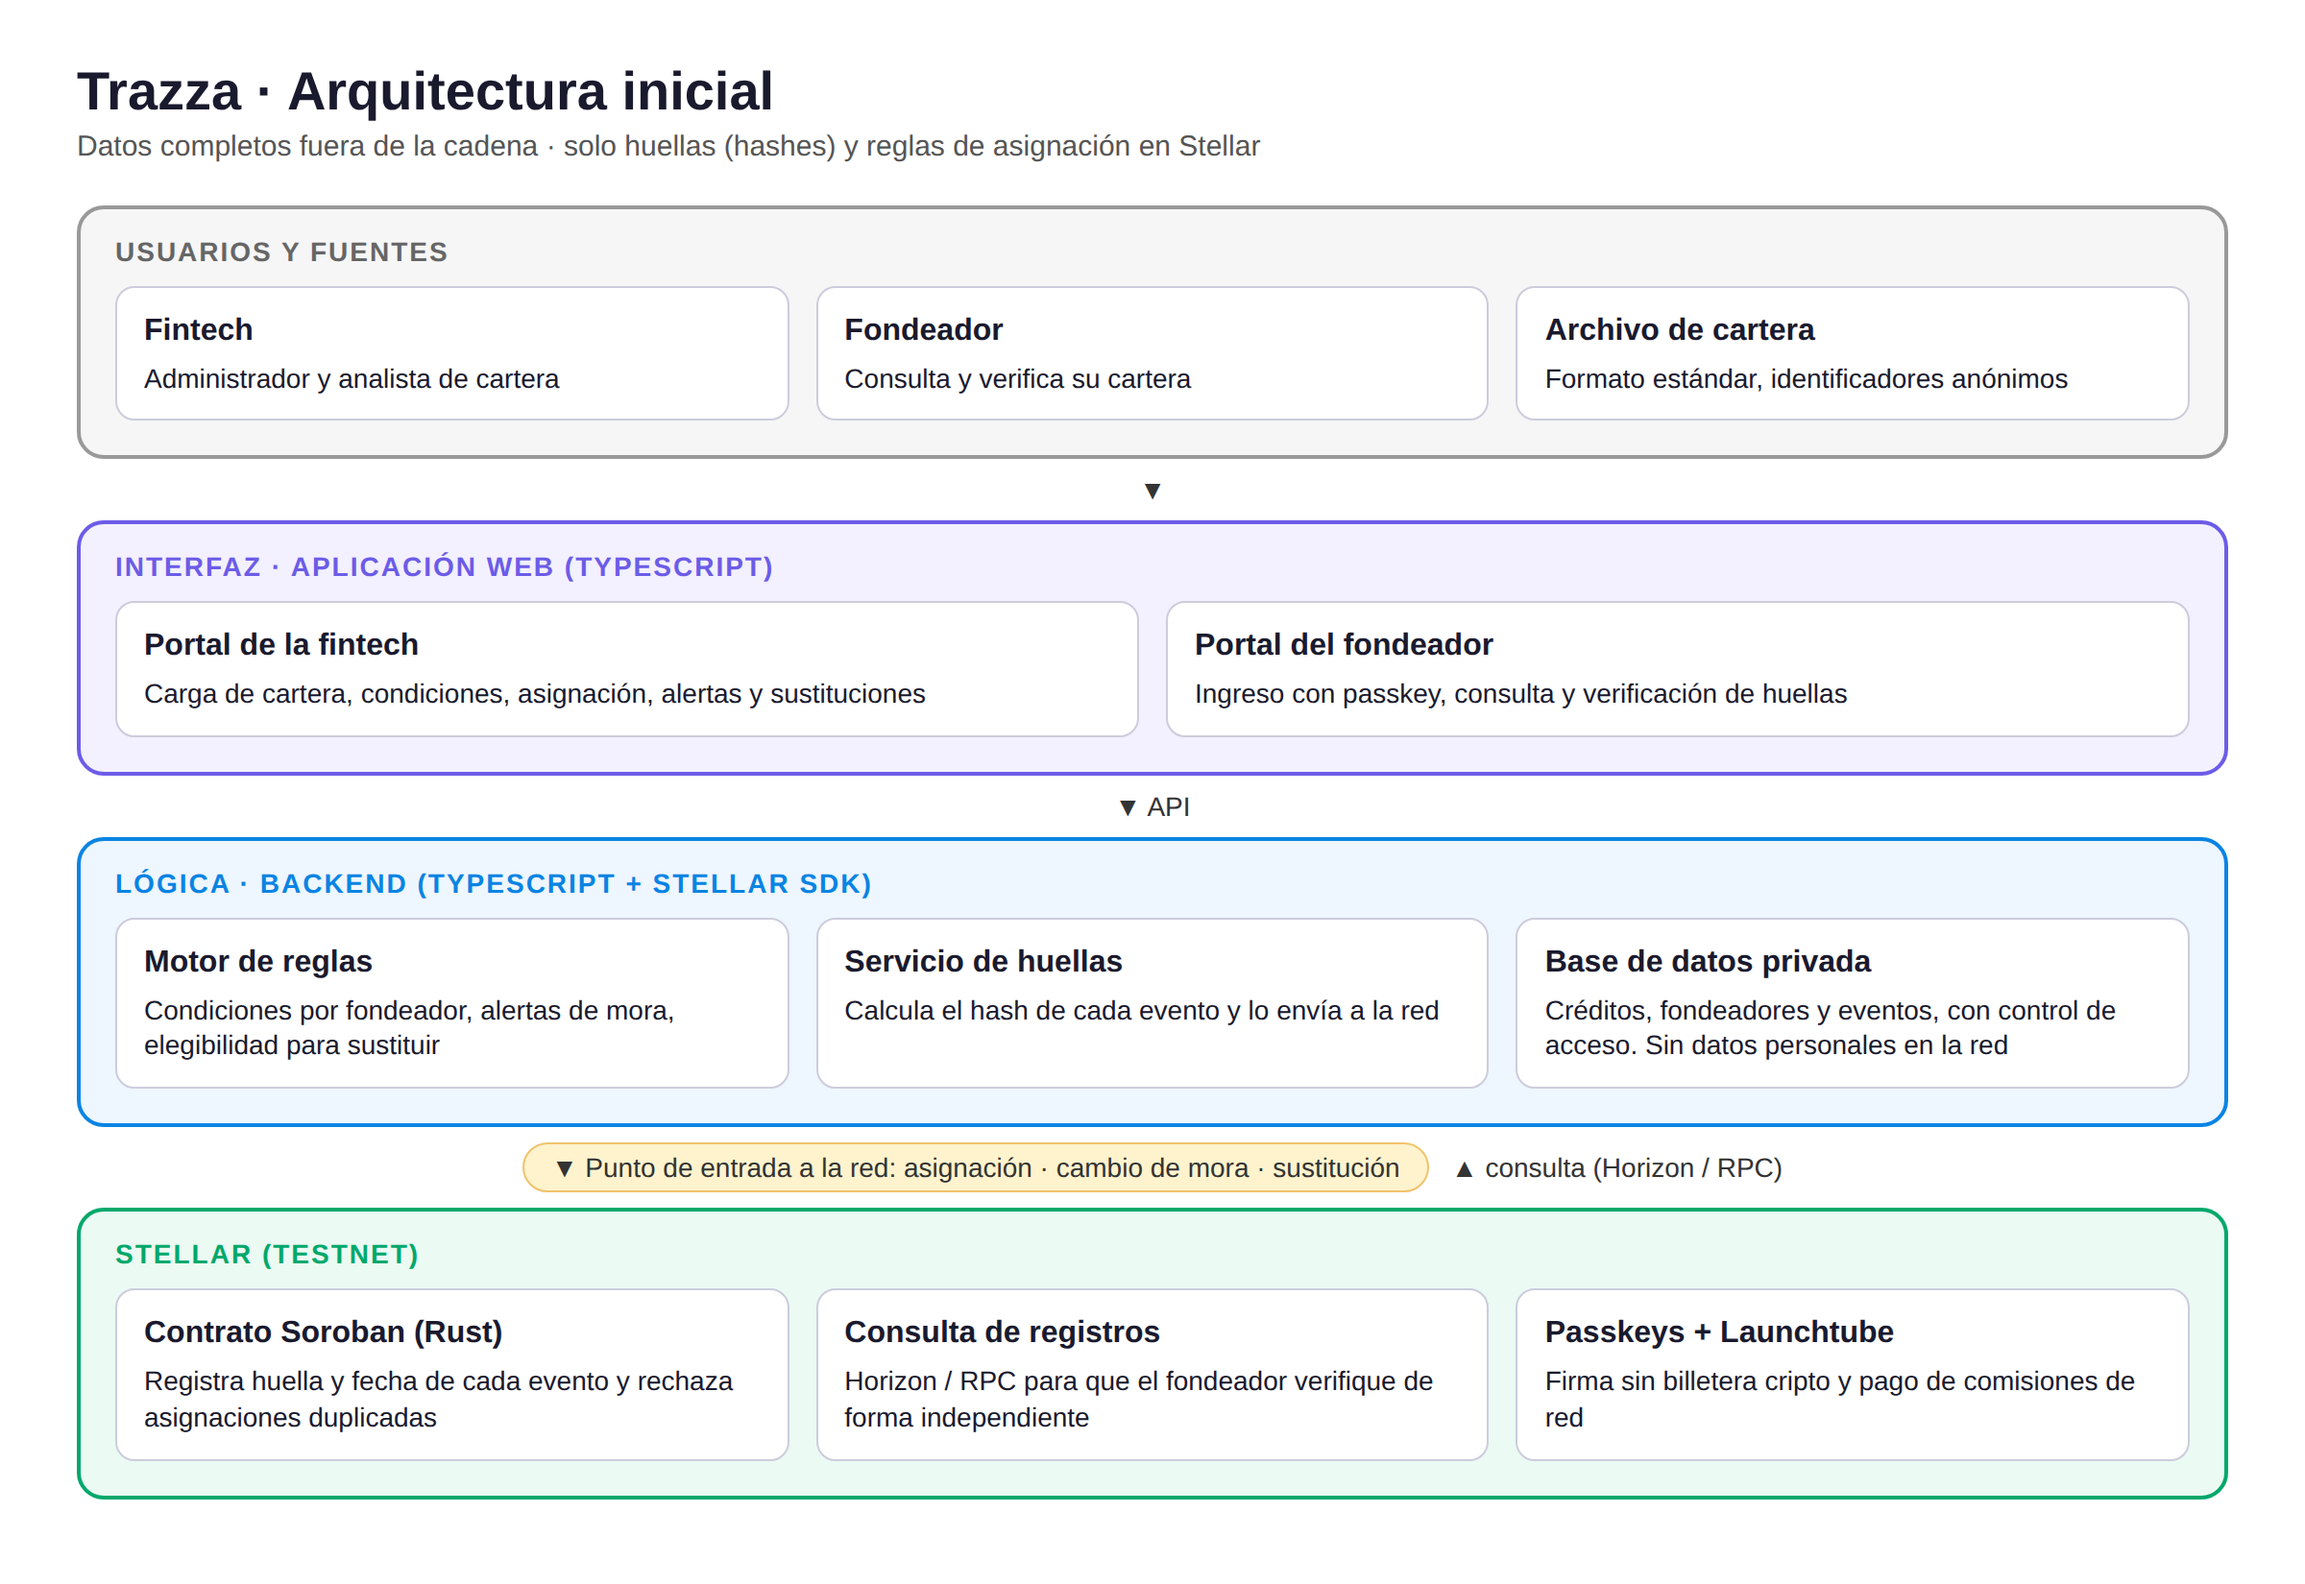
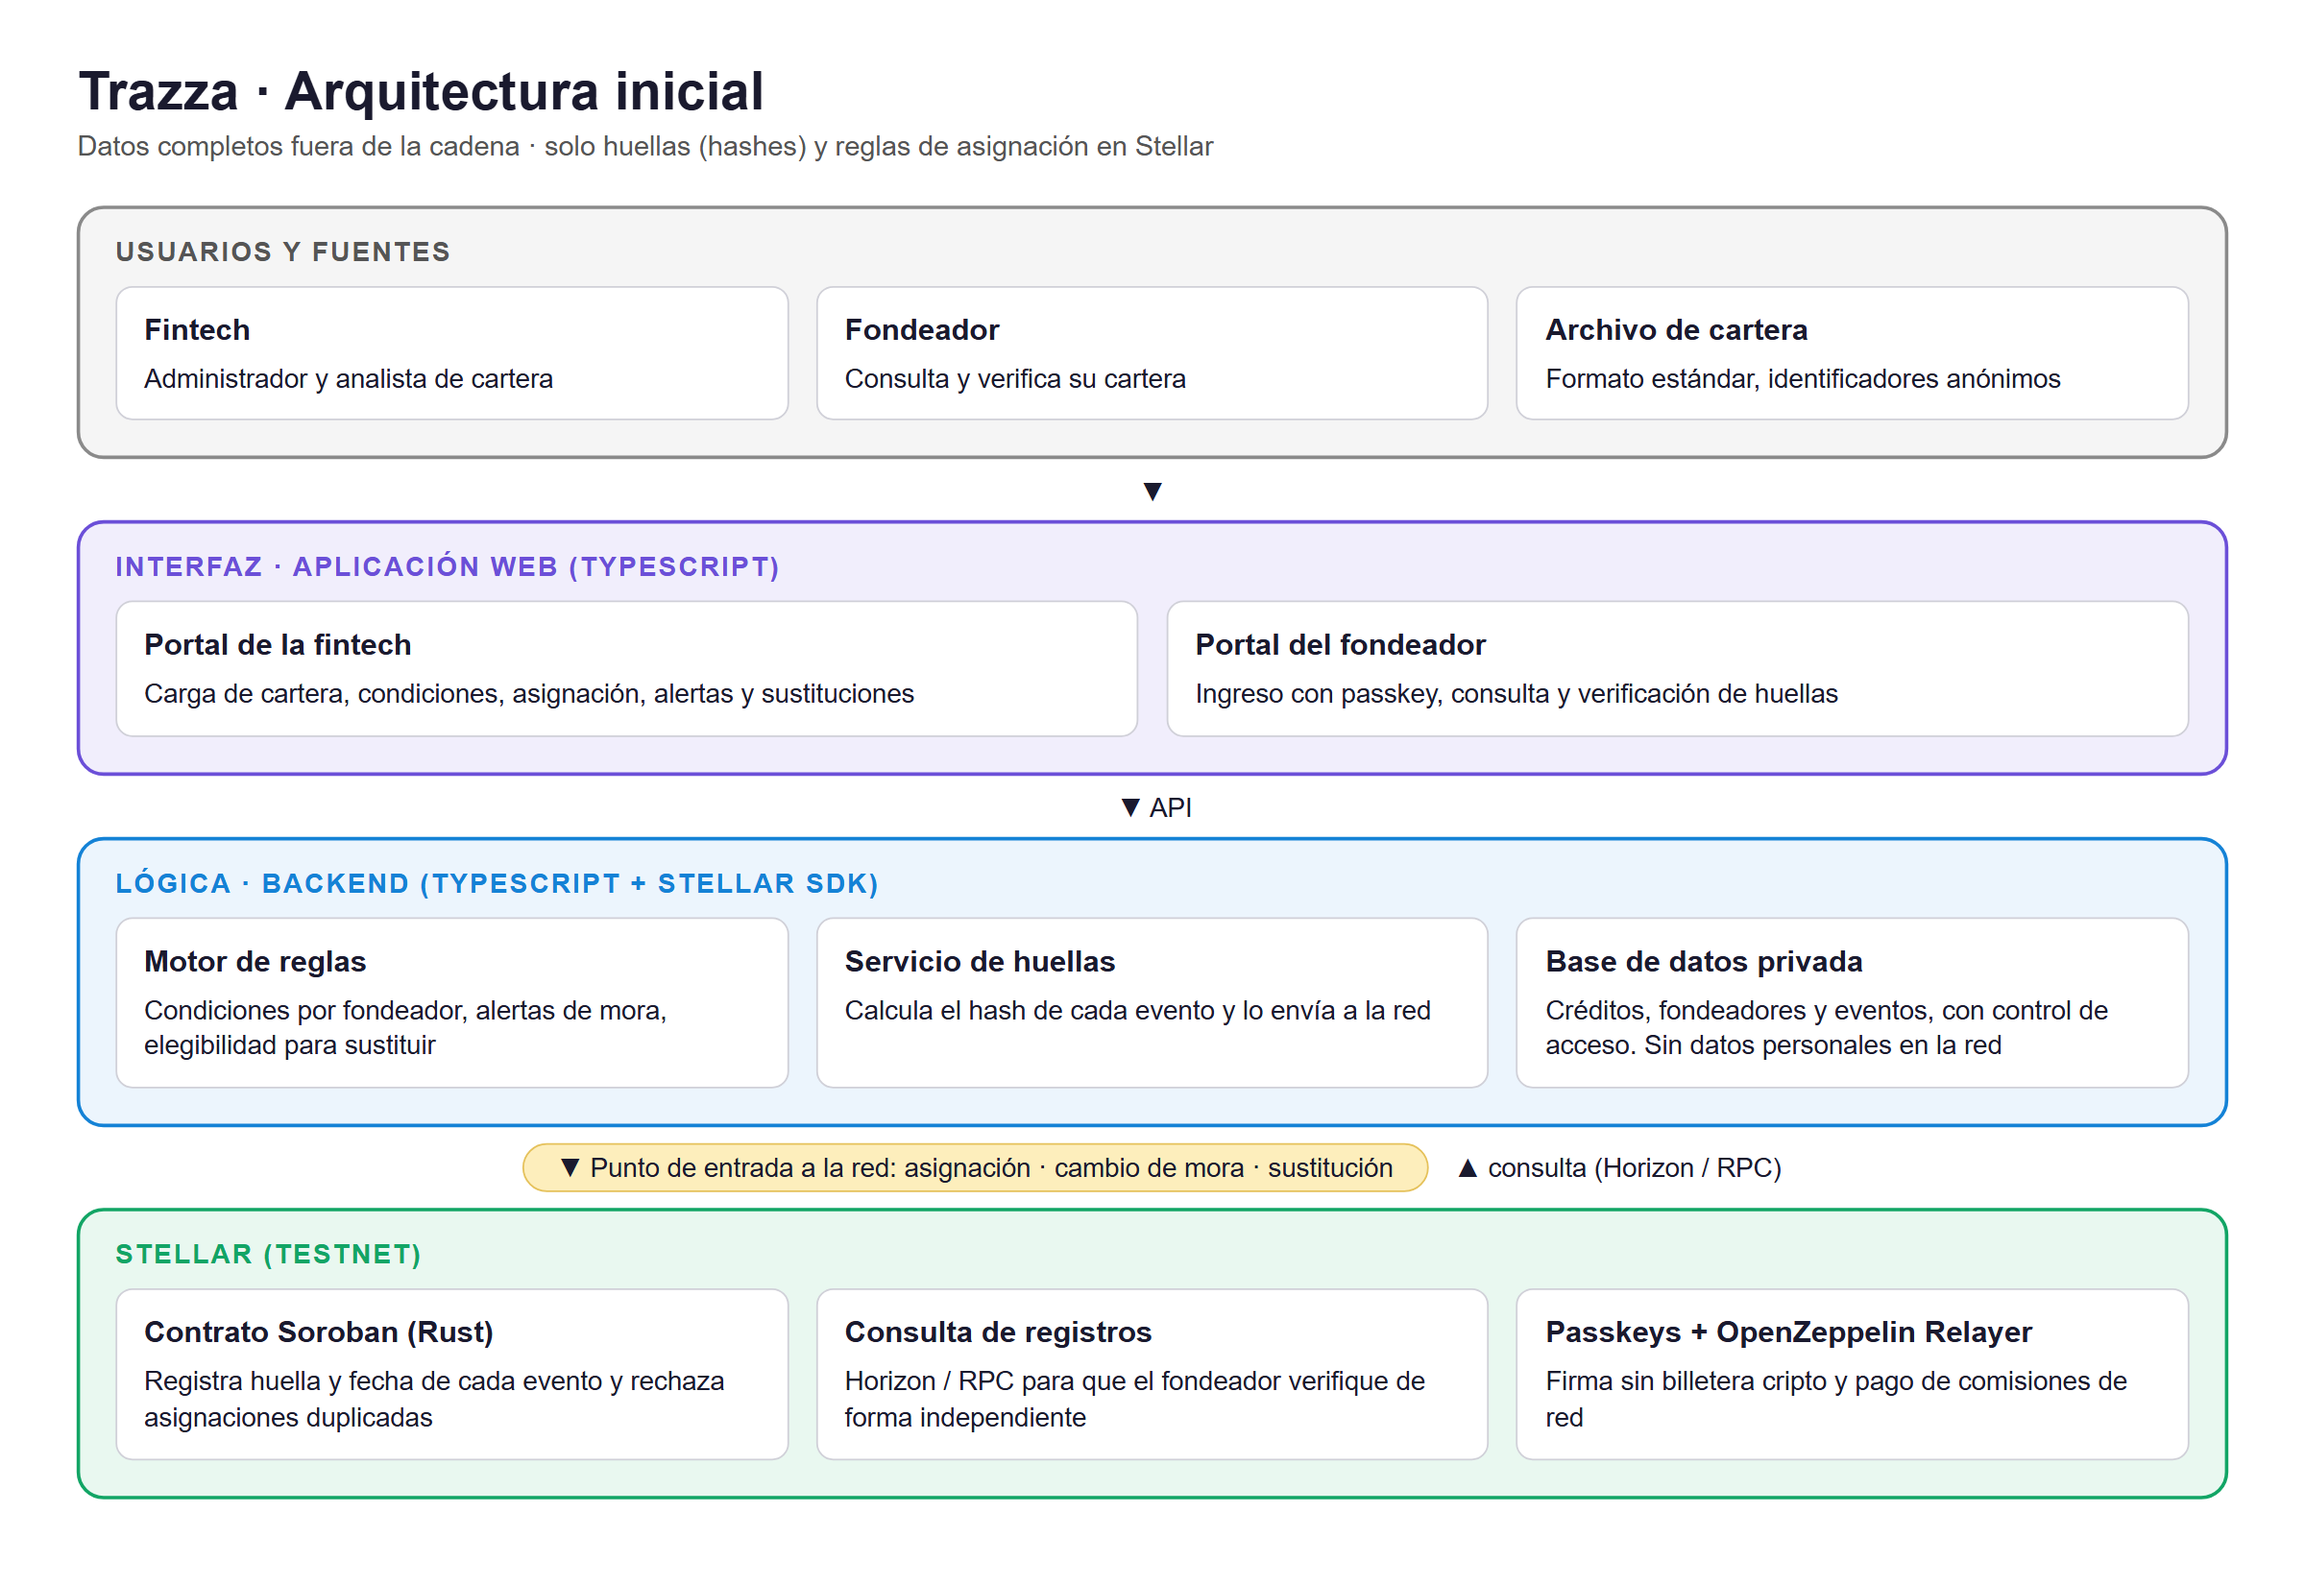
reemplazo de launchtube por openzeppelin relayer en el blueprint

diff --git a/docs/semana2/ProductBlueprint.md b/docs/semana2/ProductBlueprint.md
@@ -165,7 +165,7 @@ El lienzo debe cubrir: problema, segmento de usuarios, propuesta de valor única
 | :---: | --- | --- |
 | Interfaz | Aplicación web (TypeScript): portal de la fintech y portal del fondeador | La fintech carga la cartera, configura condiciones, asigna créditos, recibe alertas y registra sustituciones. El fondeador ingresa con passkey, consulta sus créditos y verifica las huellas. |
 | Lógica | Backend (TypeScript + Stellar SDK): motor de reglas, servicio de huellas y base de datos privada | Aplica las condiciones de cada fondeador y genera alertas de mora. Calcula la huella (hash) de cada evento y la envía a la red. Guarda los datos completos con control de acceso, sin enviar datos personales a la cadena. |
-| Stellar | Contrato Soroban (Rust), consultas por Horizon/RPC, passkeys y Launchtube | El contrato registra la huella y la fecha de cada evento y rechaza las asignaciones duplicadas. Las consultas permiten al fondeador verificar los registros de forma independiente. |
+| Stellar | Contrato Soroban (Rust), consultas por Horizon/RPC, passkeys y OpenZeppelin Relayer | El contrato registra la huella y la fecha de cada evento y rechaza las asignaciones duplicadas. Las consultas permiten al fondeador verificar los registros de forma independiente. |
 
 **En qué punto entra la red:** la red entra cuando ocurre uno de tres eventos: la asignación de un crédito a un fondeador, un cambio de mora o una sustitución. En ese momento, el backend calcula la huella del evento y la envía al contrato de Soroban, que la registra con su fecha y, en el caso de las asignaciones, verifica que el crédito no esté asignado a otro fondeador. La red vuelve a usarse cuando el fondeador verifica un registro: el portal consulta la huella publicada y la compara con la calculada a partir de los datos. El resto del flujo (carga de cartera, reglas y alertas) ocurre fuera de la cadena.
 
@@ -183,5 +183,5 @@ El lienzo debe cubrir: problema, segmento de usuarios, propuesta de valor única
 | **Stellar RPC / Horizon** | Consultar los registros publicados para que el fondeador compare las huellas. | Permite verificar directamente en la red pública, sin depender de los servidores de Trazza ni de la fintech. |
 | **Stellar SDK (TypeScript)** | Conectar el backend con la red para enviar eventos y consultar registros. | Es la librería oficial y usa el mismo lenguaje del resto de la aplicación. |
 | **Passkeys** | Permitir que el fondeador firme con huella o reconocimiento facial. | Los fondeadores no necesitan instalar ni manejar una billetera cripto como Freighter. |
-| **Launchtube** | Enviar las transacciones y cubrir las comisiones de red. | Ni la fintech ni el fondeador necesitan tener XLM para pagar comisiones. |
+| **OpenZeppelin Relayer** | Enviar las transacciones y cubrir las comisiones de red. | Ni la fintech ni el fondeador necesitan tener XLM para pagar comisiones. Es el servicio que la documentación de Stellar recomienda para enviar transacciones con comisiones patrocinadas. |
 | **Red de pruebas (testnet)** | Desarrollar y validar el MVP. | Permite probar sin costo real antes de pasar a la red principal. |
